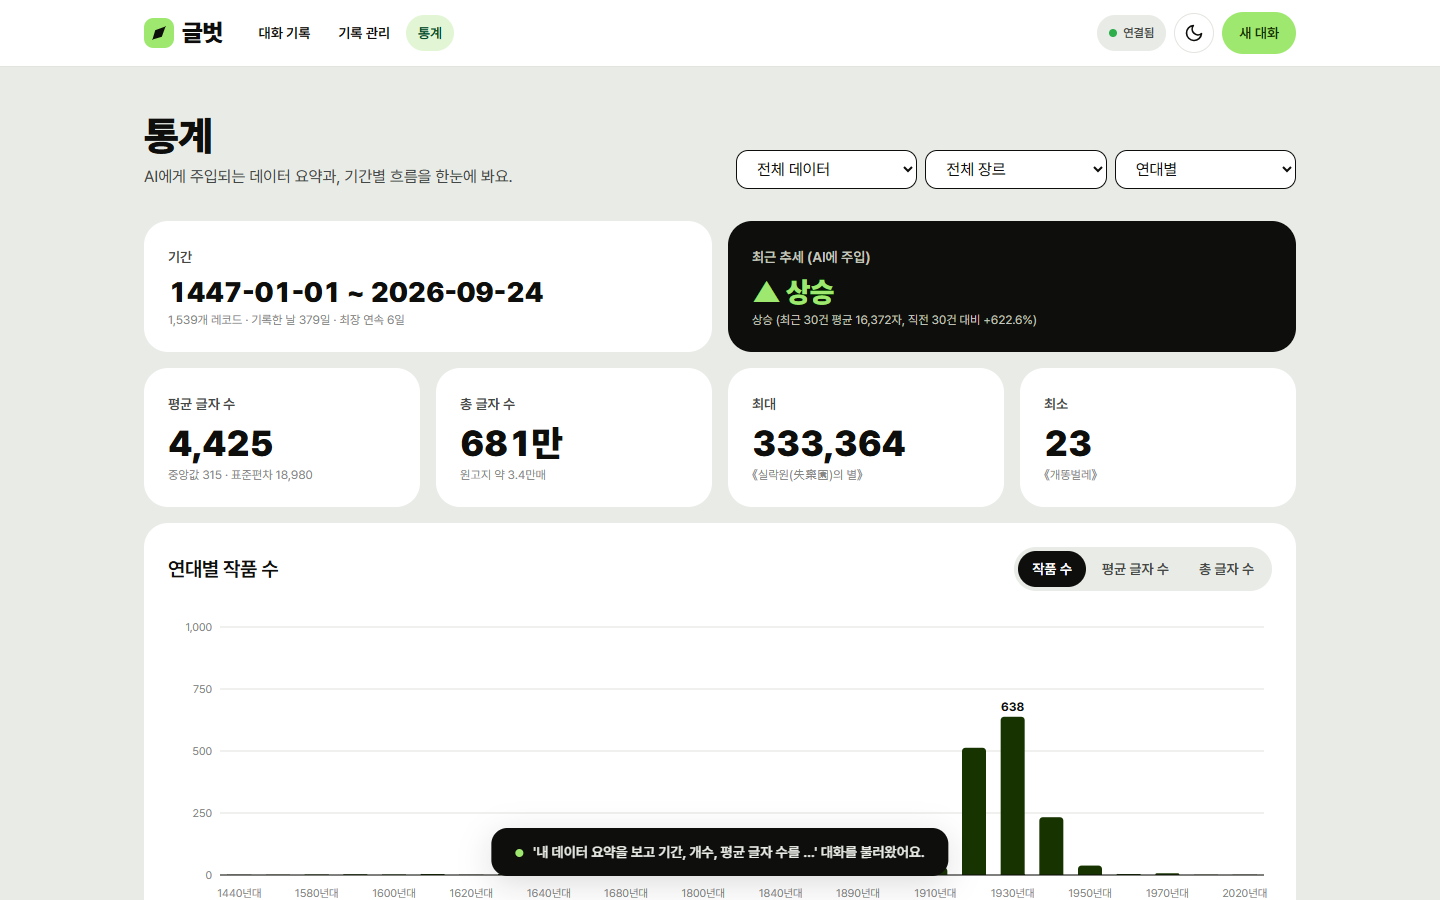
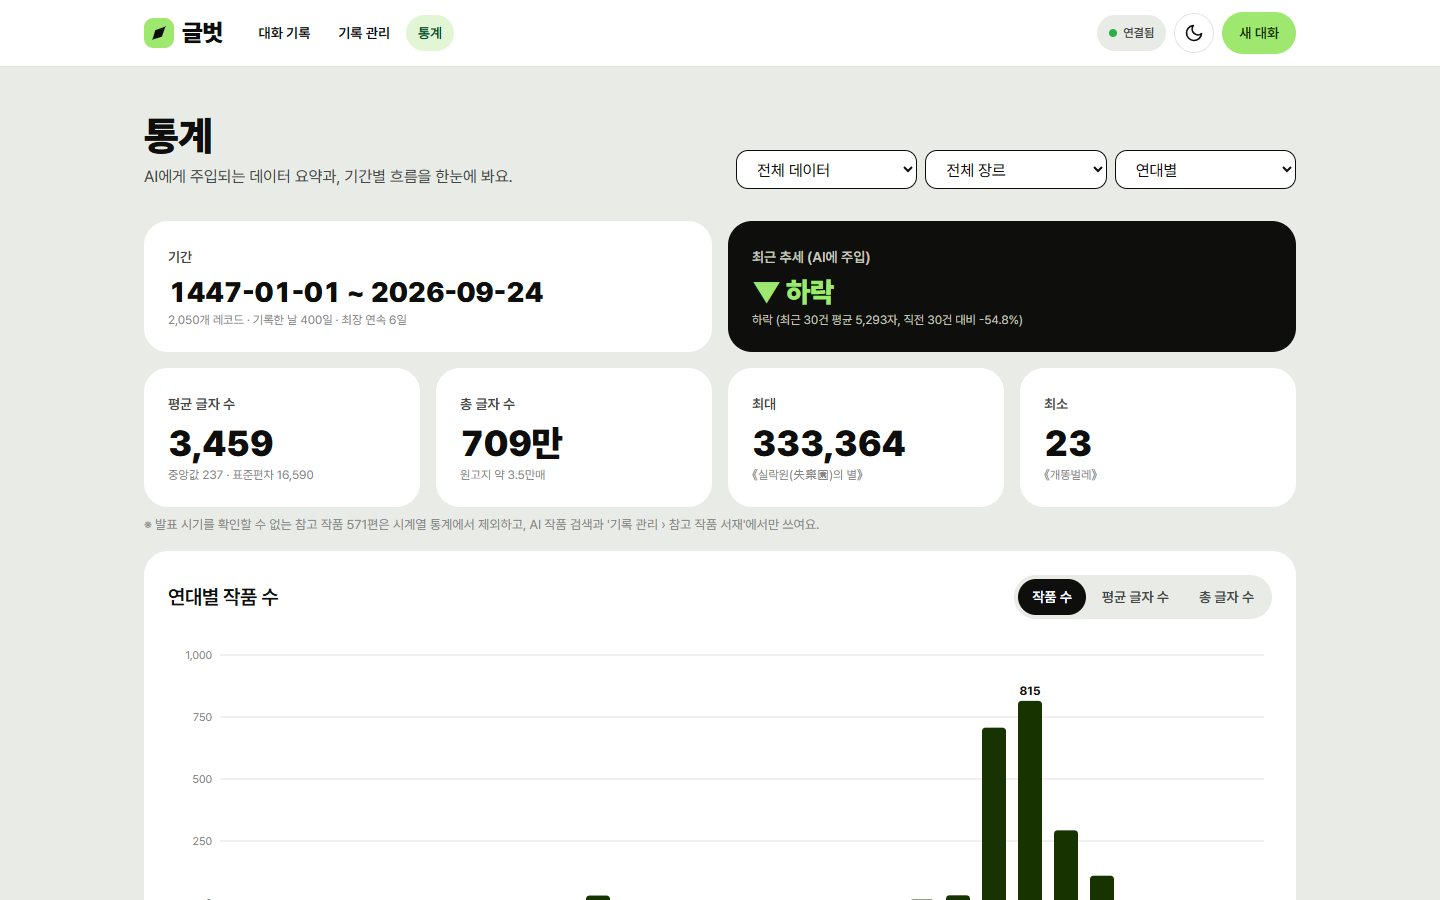
배포 사이트 스크린샷·MCP 검증 결과 갱신, 캡처 시 알림 겹침 방지

diff --git a/docs/capture_screenshots.py b/docs/capture_screenshots.py
@@ -93,6 +93,7 @@ with sync_playwright() as p:
     # 4) 통계 + 그래프
     page.goto(f"{FRONT}/#/insights")
     page.wait_for_selector("#chart svg", timeout=60_000)
+    page.wait_for_selector("#toast", state="hidden", timeout=10_000)  # 이전 화면의 알림이 겹치지 않게
     page.wait_for_timeout(800)
     shot(page, "insights")
 
